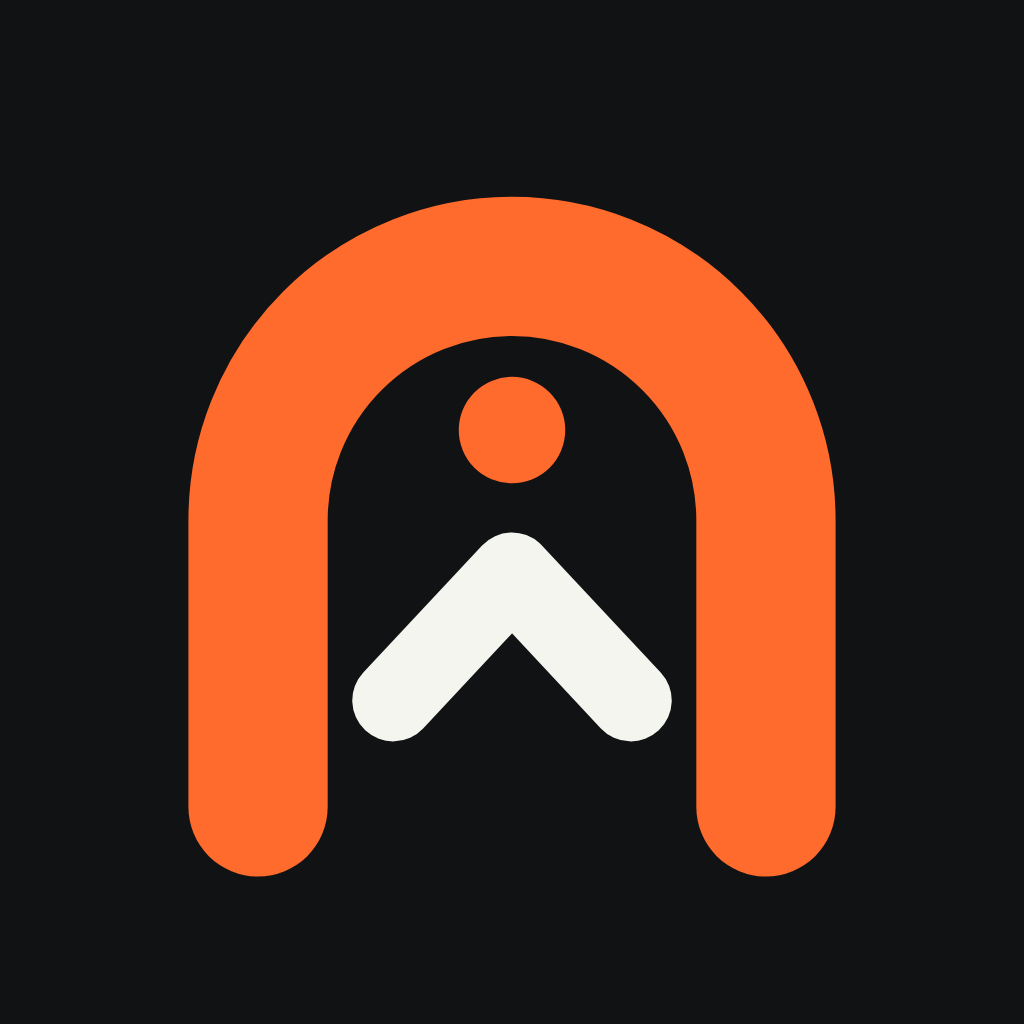
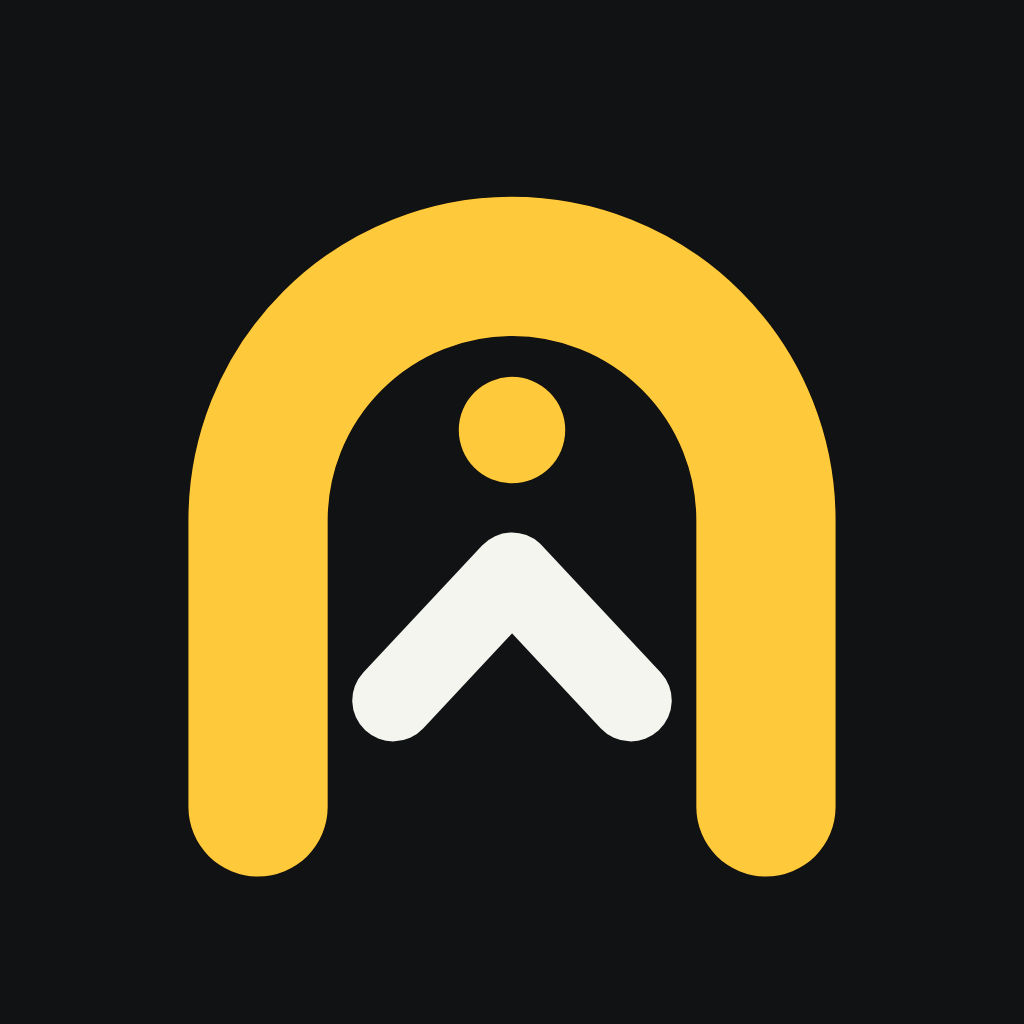
native: طلباتي السابقة بتصميم واضح (أيقونة ونوع وحالة وتاريخ والسائق والوجهة)، لوكو التطبيق أصفر
Claude-Session: https://claude.ai/code/session_01CPeNF4YeC7sut9oWUzz2V4

Changed region(s): [[0.1562, 0.1875, 0.8438, 0.875]]

diff --git a/native/src/app/(tabs)/profile.tsx b/native/src/app/(tabs)/profile.tsx
@@ -11,7 +11,7 @@ import { Select } from '@/components/select';
 import { Btn, Card, Muted, T, rtl } from '@/components/ui';
 import { useAuth } from '@/lib/auth';
 import { loadBlocks, unblock } from '@/lib/blocks';
-import { ago, avatarUrl, GOVS } from '@/lib/data';
+import { avatarUrl, GOVS } from '@/lib/data';
 import { carSpec, carSpecText } from '@/lib/carspecs';
 import { PAGES } from '@/lib/site';
 import { supabase } from '@/lib/supabase';
@@ -19,9 +19,13 @@ import { C, fontFor, R } from '@/lib/theme';
 import { CARS } from '@/lib/vehicles';
 
 type Prof = { full_name: string | null; phone: string | null; car: string | null; governorate: string | null; avatar_path?: string | null; car_weight_kg?: number | null; car_length_m?: number | null };
-type ReqRow = { number: number | null; issue: string; status: string; created_at: string };
+type ReqRow = { number: number | null; issue: string; status: string; created_at: string; destination?: string | null; cranes?: { name: string } | null };
 const ST: Record<string, string> = { open: 'قيد البحث', accepted: 'مؤكد', completed: 'مكتمل', cancelled: 'ملغي', expired: 'منتهي' };
 const ISS: Record<string, string> = { tow: 'سحب', battery: 'بطارية', tire: 'إطار', fuel: 'وقود', locked: 'مفاتيح مقفلة', accident: 'حادث', other: 'أخرى' };
+const ISS_ICON: Record<string, React.ComponentProps<typeof Ionicons>['name']> = { tow: 'car-outline', battery: 'battery-dead-outline', tire: 'disc-outline', fuel: 'water-outline', locked: 'key-outline', accident: 'warning-outline', other: 'help-circle-outline' };
+const ST_COLOR: Record<string, string> = { open: C.info, accepted: C.accent, completed: C.ok, cancelled: C.muted, expired: C.muted };
+const MONTHS = ['كانون الثاني', 'شباط', 'آذار', 'نيسان', 'أيار', 'حزيران', 'تموز', 'آب', 'أيلول', 'تشرين الأول', 'تشرين الثاني', 'كانون الأول'];
+const fmtWhen = (iso: string) => { const d = new Date(iso); const h = d.getHours(), m = String(d.getMinutes()).padStart(2, '0'); return d.getDate() + ' ' + MONTHS[d.getMonth()] + ' · ' + ((h % 12) || 12) + ':' + m + (h >= 12 ? ' م' : ' ص'); };
 const inp = { fontFamily: fontFor('400'), backgroundColor: C.surface2, color: C.text, borderRadius: R.md, paddingHorizontal: 14, paddingVertical: 12, fontSize: 15, textAlign: 'right' as const, borderWidth: 1, borderColor: C.line };
 
 const parseCar = (t: string | null): CarVal => {
@@ -86,7 +90,7 @@ export default function Profile() {
     if (!uid) return;
     const [pr, rq, bl] = await Promise.all([
       supabase.from('profiles').select('full_name,phone,car,governorate,avatar_path,car_weight_kg,car_length_m').eq('id', uid).maybeSingle(),
-      supabase.from('requests').select('number,issue,status,created_at').order('created_at', { ascending: false }).limit(10),
+      supabase.from('requests').select('number,issue,status,created_at,destination,cranes(name)').order('created_at', { ascending: false }).limit(15),
       loadBlocks().catch(() => ({} as Record<string, string>)),
     ]);
     setP((pr.data as Prof | null) ?? { full_name: null, phone: null, car: null, governorate: null });
@@ -209,15 +213,35 @@ export default function Profile() {
         <Btn label="تعديل حسابي" onPress={startEdit} style={{ alignSelf: 'stretch', marginTop: 4 }} />
       </View>
 
-      <Card style={{ gap: 6 }}>
+      <View style={{ gap: 10 }}>
         <T style={{ fontWeight: '800', fontSize: 17 }}>طلباتي السابقة</T>
-        {reqs === null ? <ActivityIndicator color={C.accent} /> : reqs.length === 0 ? <Muted>ما عندك طلبات بعد.</Muted> : reqs.map((x, i) => (
-          <View key={i} style={[rtl.row, { justifyContent: 'space-between', paddingVertical: 4 }]}>
-            <T><T style={{ fontWeight: '800' }}>#{x.number ?? ''}</T> {ISS[x.issue] ?? ''}</T>
-            <Muted style={{ fontSize: 13 }}>{ST[x.status] ?? x.status} · {ago(x.created_at)}</Muted>
-          </View>
-        ))}
-      </Card>
+        {reqs === null ? <ActivityIndicator color={C.accent} /> : reqs.length === 0 ? <Card><Muted>ما عندك طلبات بعد.</Muted></Card> : reqs.map((x, i) => {
+          const col = ST_COLOR[x.status] ?? C.muted;
+          return (
+            <Card key={i} style={{ gap: 8, padding: 14 }}>
+              <View style={[rtl.row, { gap: 12 }]}>
+                <View style={{ width: 44, height: 44, borderRadius: 22, backgroundColor: col + '22', alignItems: 'center', justifyContent: 'center' }}>
+                  <Ionicons name={ISS_ICON[x.issue] ?? 'help-circle-outline'} size={22} color={col} />
+                </View>
+                <View style={{ flex: 1, gap: 2 }}>
+                  <T style={{ fontWeight: '800', fontSize: 16 }}>{ISS[x.issue] ?? 'طلب مساعدة'}</T>
+                  <Muted style={{ fontSize: 12 }}>{fmtWhen(x.created_at)}</Muted>
+                </View>
+                <View style={{ paddingHorizontal: 12, paddingVertical: 5, borderRadius: 99, backgroundColor: col + '22' }}>
+                  <T style={{ color: col, fontSize: 12, fontWeight: '700' }}>{ST[x.status] ?? x.status}</T>
+                </View>
+              </View>
+              {(!!x.cranes?.name || !!x.destination) && (
+                <View style={{ gap: 4, paddingTop: 8, borderTopWidth: 1, borderTopColor: C.line }}>
+                  {!!x.cranes?.name && <View style={[rtl.row, { gap: 6 }]}><Ionicons name="person-outline" size={15} color={C.muted} /><Muted style={{ fontSize: 13 }}>السائق: {x.cranes.name}</Muted></View>}
+                  {!!x.destination && <View style={[rtl.row, { gap: 6 }]}><Ionicons name="location-outline" size={15} color={C.muted} /><Muted style={{ fontSize: 13, flex: 1 }}>الوجهة: {x.destination}</Muted></View>}
+                </View>
+              )}
+              {x.number != null && <Muted style={{ fontSize: 11 }}>رقم الطلب {x.number}</Muted>}
+            </Card>
+          );
+        })}
+      </View>
 
       {blocked.length > 0 && (
         <Card style={{ gap: 8 }}>

diff --git a/native/src/components/arch-loader.tsx b/native/src/components/arch-loader.tsx
@@ -16,7 +16,7 @@ export function ArchLoader({ pct, size = 150 }: { pct: number; size?: number }) 
   const trail: React.ReactNode[] = [];
   for (let d = 0; d <= AL; d += 3) {
     const [x, y] = at(d);
-    const dot = <View key={d} style={{ position: 'absolute', left: (x - 6) * u, top: (y - 6) * u, width: 12 * u, height: 12 * u, borderRadius: 6 * u, backgroundColor: d <= cur ? '#FF6B2C' : 'rgba(255,255,255,0.16)' }} />;
+    const dot = <View key={d} style={{ position: 'absolute', left: (x - 6) * u, top: (y - 6) * u, width: 12 * u, height: 12 * u, borderRadius: 6 * u, backgroundColor: d <= cur ? '#FFC93C' : 'rgba(255,255,255,0.16)' }} />;
     (d <= cur ? trail : track).push(dot);
   }
   const [px, py] = at(cur);
@@ -28,7 +28,7 @@ export function ArchLoader({ pct, size = 150 }: { pct: number; size?: number }) 
         <View style={{ position: 'absolute', left: -2 * u, top: 6 * u, width: 22 * u, height: 7 * u, borderRadius: 4 * u, backgroundColor: '#F5F5F0', transform: [{ rotate: '-47deg' }] }} />
         <View style={{ position: 'absolute', left: 9 * u, top: 6 * u, width: 22 * u, height: 7 * u, borderRadius: 4 * u, backgroundColor: '#F5F5F0', transform: [{ rotate: '47deg' }] }} />
       </View>
-      <View style={{ position: 'absolute', left: (px - 6.5) * u, top: (py - 6.5) * u, width: 13 * u, height: 13 * u, borderRadius: 6.5 * u, backgroundColor: '#F5F5F0', shadowColor: '#FF6B2C', shadowOpacity: 0.9, shadowRadius: 6, shadowOffset: { width: 0, height: 0 } }} />
+      <View style={{ position: 'absolute', left: (px - 6.5) * u, top: (py - 6.5) * u, width: 13 * u, height: 13 * u, borderRadius: 6.5 * u, backgroundColor: '#F5F5F0', shadowColor: '#FFC93C', shadowOpacity: 0.9, shadowRadius: 6, shadowOffset: { width: 0, height: 0 } }} />
     </View>
   );
 }
